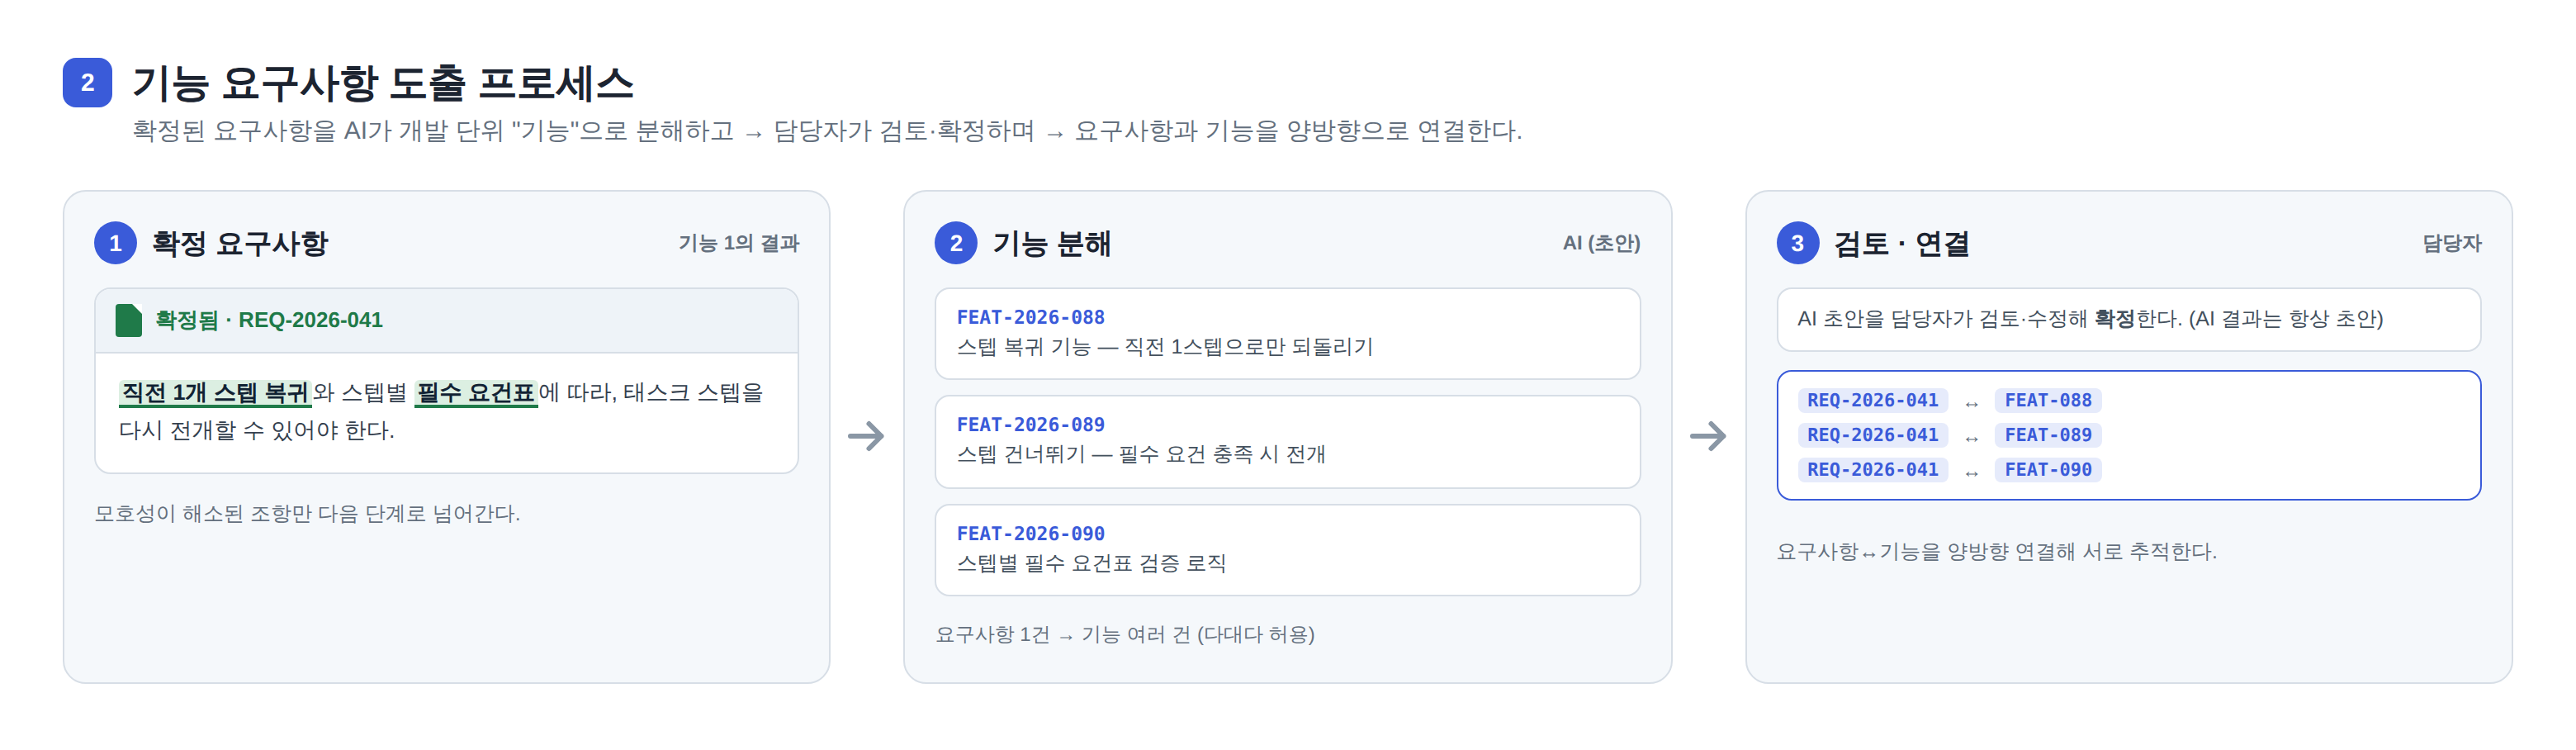
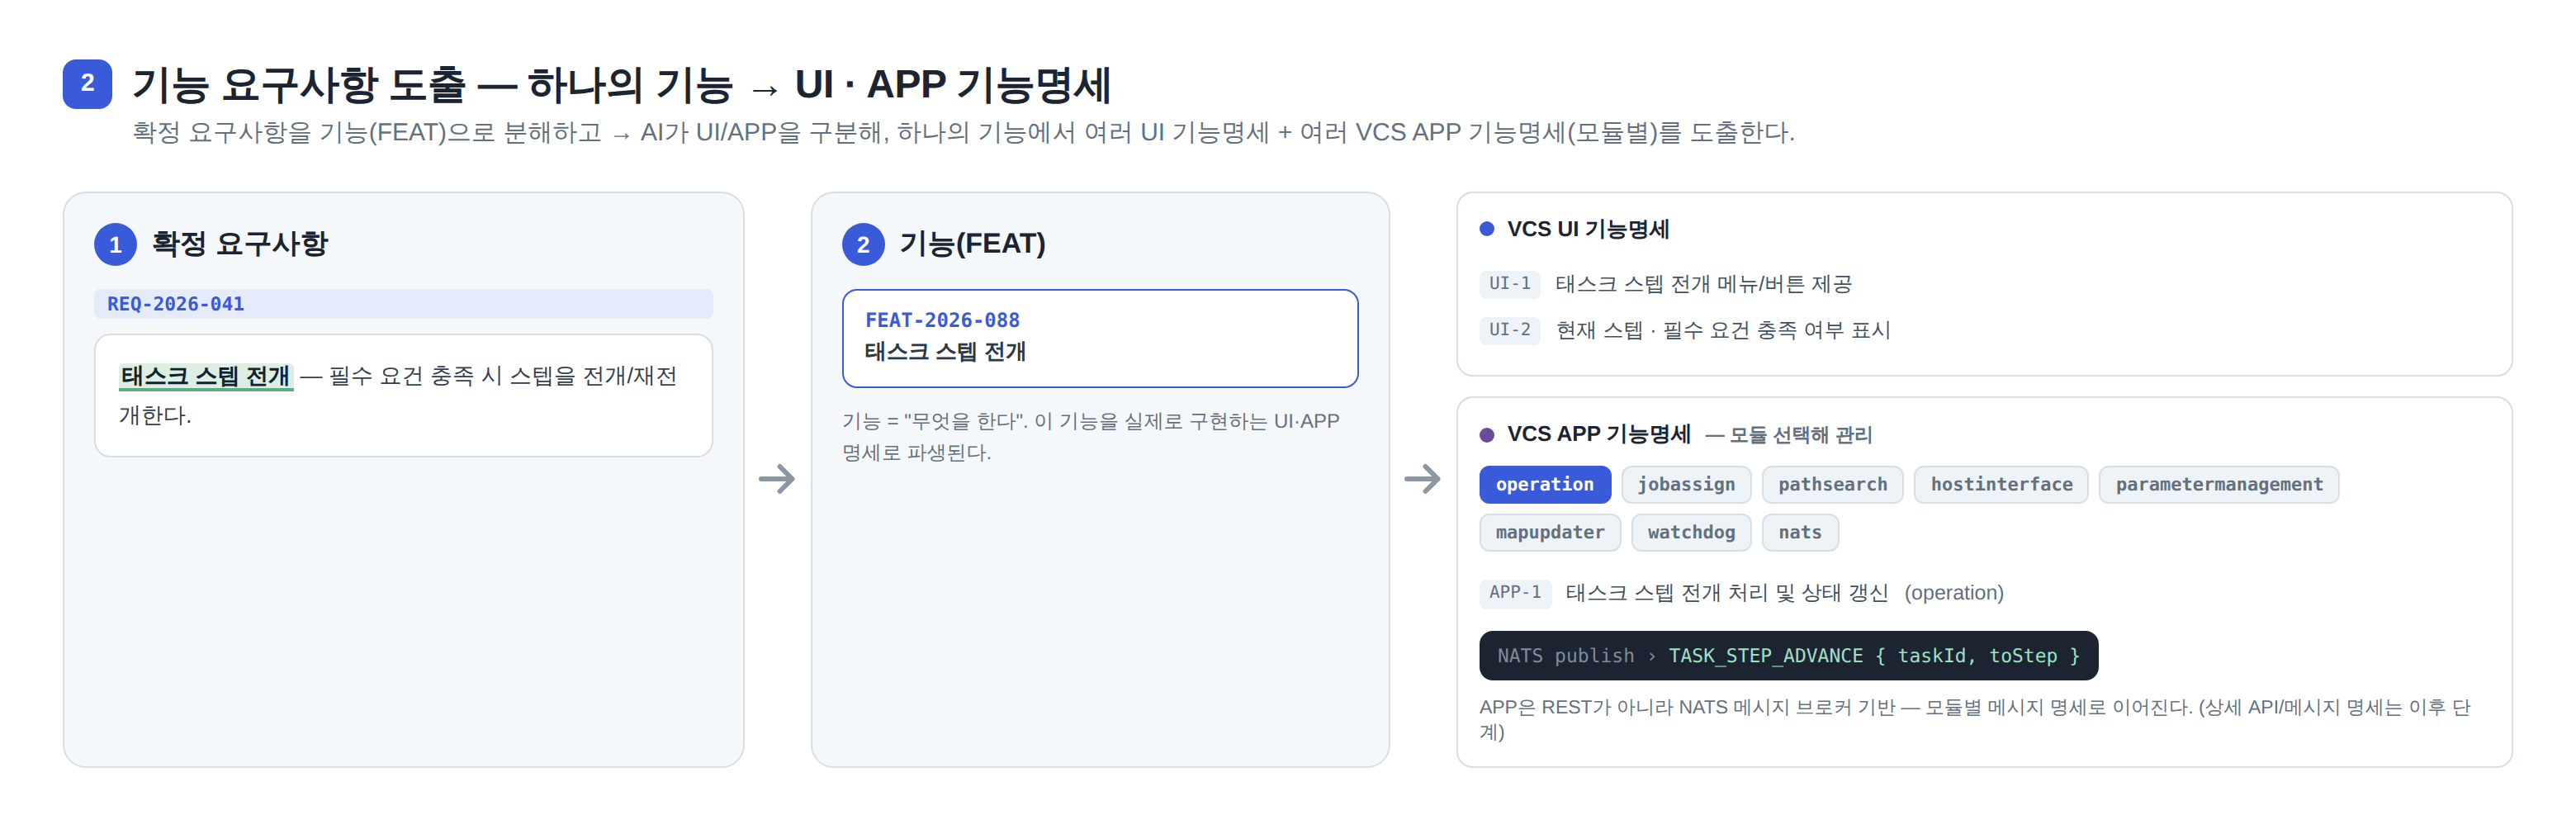
docs(design): expand core-feature figures (ambiguity resolve/skip, UI·APP specs, DB viewer)
- Feature 1 (모호성): add resolve-or-skip decision, resolution input
  dialog, and a before/after comparison view; new images fig1 + fig1b.
- Feature 2 (기능 도출): one FEAT derives multiple VCS UI specs and
  multiple VCS APP specs; AI splits UI vs APP, APP is managed per module
  (8 modules) over NATS messaging; new fig2.
- Feature 3 (DB): redesign as a change viewer with a left table menu
  (TASK/USERS/UR_USERGROUP_RESOURCE/VEHICLE/NODE/STATION/CHARGESTATION/
  ALARM_CODE) with change badges and detail — a UR_USERGROUP_RESOURCE
  added row and an ALARM->ALARM_CODE rename + IS_REPORTED column; new fig3.
- PROJECT.md: update APP module list (Watchdog replaces UnitDevice).

diff --git a/DESIGN.md b/DESIGN.md
@@ -29,9 +29,7 @@ React 프론트엔드 ─REST─ Spring Boot 백엔드 ─REST─ Python(FastAPI
 
 ## 2. 핵심 기능 1 — 모호성 해결
 
-모호한 조항을 **① 찾아내고(검출) → ② 합의를 거쳐 해석을 확정(해결) → ③ 확정 이력을 보관** 하는 것까지가 이 기능의 범위다. 원래 문제인 "부서마다 다른 해석"을 직접 푸는 핵심 기능.
-
-![모호성 해결 프로세스](docs/img/design-fig1.png)
+모호한 조항을 **① 찾아내고(검출) → ② 해결할지 결정하고, 해결한다면 해석을 입력(해결) → ③ 확정 이력을 보관** 하는 것까지가 이 기능의 범위다. 원래 문제인 "부서마다 다른 해석"을 직접 푸는 핵심 기능.
 
 ### 2.1 모호성 유형 분류 (taxonomy)
 
@@ -54,12 +52,21 @@ React 프론트엔드 ─REST─ Spring Boot 백엔드 ─REST─ Python(FastAPI
 - "모호함"이라고만 표시하지 않고 **어떤 유형인지까지** 출력해 담당자가 빠르게 맥락을 파악하게 한다.
 - 근거가 없으면(판정 불가) 지어내지 않고 그대로 "판정 불가"로 남긴다.
 
-### 2.3 해결 (합의·확정)
+### 2.3 해결 (해결 여부 결정 · 입력)
 
-- 모호로 판정된 조항마다 코멘트 스레드가 생성된다.
-- 설계/품질/영업 등 관련 담당자가 각자 해석을 코멘트로 병렬 등록한다.
-- 지정된 최종 확정자(PM/리더)가 여러 해석 중 하나를 "확정"으로 지정한다.
-- 확정되면 해당 조항은 잠금(lock) 처리되고, 미확정 조항은 "미해결"로 별도 추적한다.
+검출된 모호 항목마다 **해결할지 / 넘어갈지** 를 먼저 결정한다.
+
+![모호성 해결 — 해결 여부 결정 및 입력](docs/img/design-fig1.png)
+
+- **해결하기**: 해석 입력 Dialog가 열린다. 원문(모호 표현)을 보면서 확정 해석을 입력하고 "확정"한다.
+  - 설계/품질/영업 등 담당자가 해석을 코멘트로 병렬 등록하고, 최종 확정자(PM/리더)가 하나를 확정하는 협의 흐름으로도 확장한다.
+  - 확정되면 해당 조항은 잠금(lock) 처리된다.
+- **해결 불필요 · 넘어가기**: 문맥상 모호하지 않다고 판단되면 해결 없이 다음 조항으로 넘어간다. (넘어간 항목도 기록에는 남는다.)
+- 미확정으로 남은 모호 조항은 "미해결"로 별도 추적한다.
+
+**해결 전 / 후 비교** — 확정 후 원본과 해결본을 나란히 비교해 무엇이 어떻게 명확해졌는지 확인한다.
+
+![모호성 해결 — 해결 전 / 후 비교](docs/img/design-fig1b.png)
 
 ### 2.4 모호성 해결 이력 (감사 추적)
 
@@ -88,28 +95,35 @@ React 프론트엔드 ─REST─ Spring Boot 백엔드 ─REST─ Python(FastAPI
 
 ## 3. 핵심 기능 2 — 기능 요구사항 도출
 
-모호성이 해소된(또는 애초에 모호하지 않은) 조항을, AI가 실제 개발 단위인 **"기능"** 으로 분해하고, 요구사항과 양방향으로 연결한다.
+모호성이 해소된 조항을 AI가 실제 개발 단위인 **"기능(FEAT)"** 으로 분해하고, 각 기능을 다시 **UI · APP 기능명세**로 파생시킨다.
 
-![기능 요구사항 도출 프로세스](docs/img/design-fig2.png)
+![기능 요구사항 도출 — 하나의 기능에서 UI·APP 기능명세](docs/img/design-fig2.png)
 
 ### 3.1 분해
 
 - 요구사항 문장을 개발 가능한 기능 단위로 분해하고 각 기능에 `FEAT-ID`를 부여한다.
 - 요구사항 1개가 여러 기능으로 나뉘거나, 여러 요구사항이 하나의 기능으로 합쳐지는 다대다 관계를 허용한다.
 
-### 3.2 요구사항 ↔ 기능 연결
+### 3.2 UI · APP 기능명세로 파생
+
+"기능(FEAT)"은 *무엇을 한다*까지고, 이를 실제로 구현하는 단위는 그 아래 **기능명세**다. **하나의 기능에서 여러 개의 UI 기능명세 + 여러 개의 VCS APP 기능명세가 나온다.**
+
+- AI가 **VCS UI**와 **VCS APP(backend)**를 구분한다.
+- **VCS APP**은 8개 모듈([PROJECT.md](PROJECT.md) 5번: pathsearch / operation / jobassign / parametermanagement / hostinterface / mapupdater / watchdog / nats)로 나뉘므로, 사용자가 **모듈을 선택해 모듈별로 따로 관리**할 수 있게 한다.
+- 예) "태스크 스텝 전개" 기능 →
+  - **VCS UI 기능명세**: 스텝 전개 메뉴/버튼, 현재 스텝·요건 충족 여부 표시
+  - **VCS APP 기능명세**: `operation` 모듈의 스텝 전개 처리·상태 갱신 (실제로는 REST가 아니라 **NATS 메시지 브로커** 기반이라, 모듈별 메시지 명세로 이어진다)
+- APP 쪽의 상세 API/메시지 명세 도출은 이후 단계에서 다룬다.
+
+### 3.3 요구사항 ↔ 기능 연결
 
 - 원문을 복사해 보관하는 게 아니라, `REQ-ID`와 `FEAT-ID`를 잇는 연결(link)을 유지한다.
 - REQ 화면에서는 연결된 FEAT 목록을, FEAT 화면에서는 근거가 된 REQ 조항(문서 내 위치 포함)을 서로 조회할 수 있다.
 
-### 3.3 검토·수정 (초안 원칙)
+### 3.4 검토·수정 (초안 원칙)
 
-- AI가 자동 추출한 기능 목록을 그대로 확정하지 않고, 담당자가 검토·수정할 수 있는 화면을 제공한다.
+- AI가 자동 추출한 기능·기능명세 목록을 그대로 확정하지 않고, 담당자가 검토·수정할 수 있는 화면을 제공한다.
 - **AI 결과는 항상 초안**이라는 원칙 (모호성 검출·해결과 동일).
-
-### 3.4 입출력 예시
-
-> _(핵심 기능 1의 2.5처럼, 실제 요구사항 한 건이 어떤 기능들로 분해되는지 예시를 여기에 채운다. 위 그림의 REQ-2026-041 → FEAT-088/089/090 흐름 참고.)_
 
 ---
 
@@ -117,22 +131,26 @@ React 프론트엔드 ─REST─ Spring Boot 백엔드 ─REST─ Python(FastAPI
 
 DB 테이블이 많고, 테스트 과정에서 담당자마다 각자 스키마를 쓰다 보니 **테이블이 바뀌어도 다른 사람이 모르고, 누락된 컬럼·값이 쌓이는 문제**가 있다. 이 기능은 DB 변경을 등록하면 다른 담당자에게 알림이 가고, **모두가 항상 최신 버전의 DB 스키마를 공유·반영**하도록 관리한다.
 
-![DB 변경 관리 · 알림 프로세스](docs/img/design-fig3.png)
+![DB 변경 관리 · 알림 & 상세](docs/img/design-fig3.png)
 
-### 4.1 변경 등록
+### 4.1 변경 뷰어 · 등록
 
-담당자가 아래 유형의 DB 변경을 등록한다.
+- 왼쪽 탭에 테이블 메뉴(`TASK`, `USERS`, `UR_USERGROUP_RESOURCE`, `VEHICLE`, `NODE`, `STATION`, `CHARGESTATION`, `ALARM_CODE` …)가 있고, **변경이 생긴 테이블에는 알림 배지**가 뜬다. 클릭하면 무엇이 어떻게 바뀌었는지 상세를 보여준다.
+- 담당자가 등록하는 변경 유형: 테이블 미사용(deprecated) / 테이블명 변경 / 컬럼 추가·변경 / 속성 변경(NOT NULL·기본값·타입) / 데이터(권한 등) 추가.
 
-| 유형 | 예시 |
-|---|---|
-| 테이블 미사용(deprecated) | `TASK_LOG_OLD` 테이블 더 이상 사용 안 함 |
-| 컬럼 추가/변경 | `USER_ROLE`에 `is_admin` 추가 / `TASK.status` 길이 변경 |
-| 속성 변경 | NOT NULL, 기본값, 타입 등 제약 변경 |
-| 데이터 추가 | 권한 데이터(예: `OPERATOR`) 신규 추가 |
+**예시 1 — 행(ROW) 추가** (`UR_USERGROUP_RESOURCE`):
+
+| ID | POLICY_ID | RESOURCE_AVAILABLE | RESOURCE_ID |
+|---|---|---|---|
+| **111** | **NRemoteAdmin** | **TRUE** | **nremote.action.views.vcsorder.add** | ← 추가됨
+
+**예시 2 — 테이블명 변경 + 컬럼 추가** (`ALARM`):
+- 테이블명 변경: `ALARM` → `ALARM_CODE`
+- 컬럼 추가: `IS_REPORTED` (보고 여부 플래그)
 
 ### 4.2 변경 알림
 
-- 등록된 변경은 관련 담당자(개발·테스트·운영)에게 알림으로 통지된다.
+- 등록된 변경은 관련 담당자(개발·테스트·운영)에게 알림으로 통지되고, 해당 테이블 메뉴에 배지로 표시된다.
 - 담당자는 알림을 받고 자신의 스키마를 즉시 최신으로 맞출 수 있다.
 
 ### 4.3 최신 버전 관리 · 이력

diff --git a/PROJECT.md b/PROJECT.md
@@ -66,7 +66,7 @@ VCS는 **UI**와 **APP**으로 나뉜다.
 | 1 | **Operation** | 가장 핵심적인 모듈. AMR과 주기적으로 통신(상태값 수신·점검)하고 Task를 관리한다. 다른 모듈들이 서로 통신할 때도 Operation을 거친다. |
 | 2 | **HostInterface** | 상위 시스템 newAMOS와 통신하는 인터페이스. |
 | 3 | **PathSearch** | 출발지 노드와 목적지 노드가 정해지면 다익스트라 알고리즘으로 경로를 계산해 알려준다. |
-| 4 | **UnitDevice** | AMR 충전소와 통신 — 충전 중 여부, 고장 여부 등을 확인한다. |
+| 4 | **Watchdog** | 시스템/프로세스 상태를 감시하는 워치독 (헬스 체크·이상 감지). |
 | 5 | **MapUpdater** | 라인 맵 업데이트 전담. 상시 동작이 아니라 필요 시 일시적으로 동작한다. |
 | 6 | **ParameterManagement** | 시스템 파라미터 관리 모듈. |
 | 7 | **NATS** | MSA 구조 내 모듈 간 통신을 담당하는 메시지 브로커. |